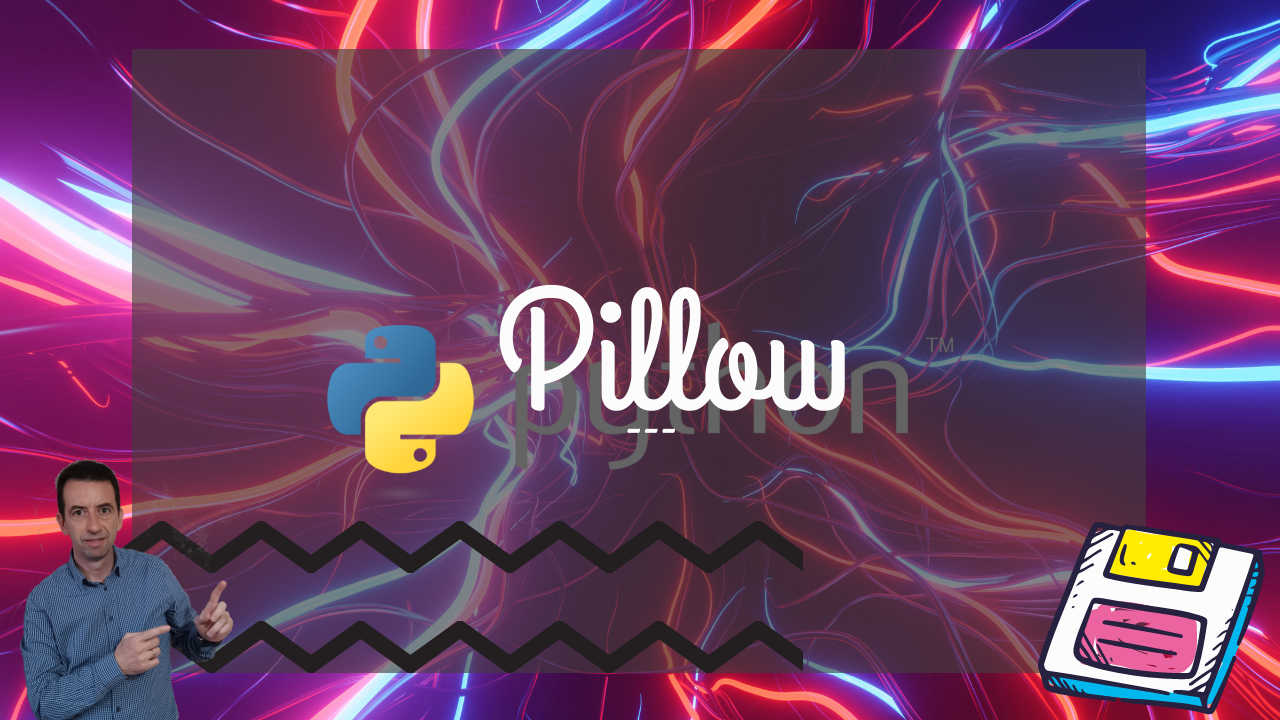
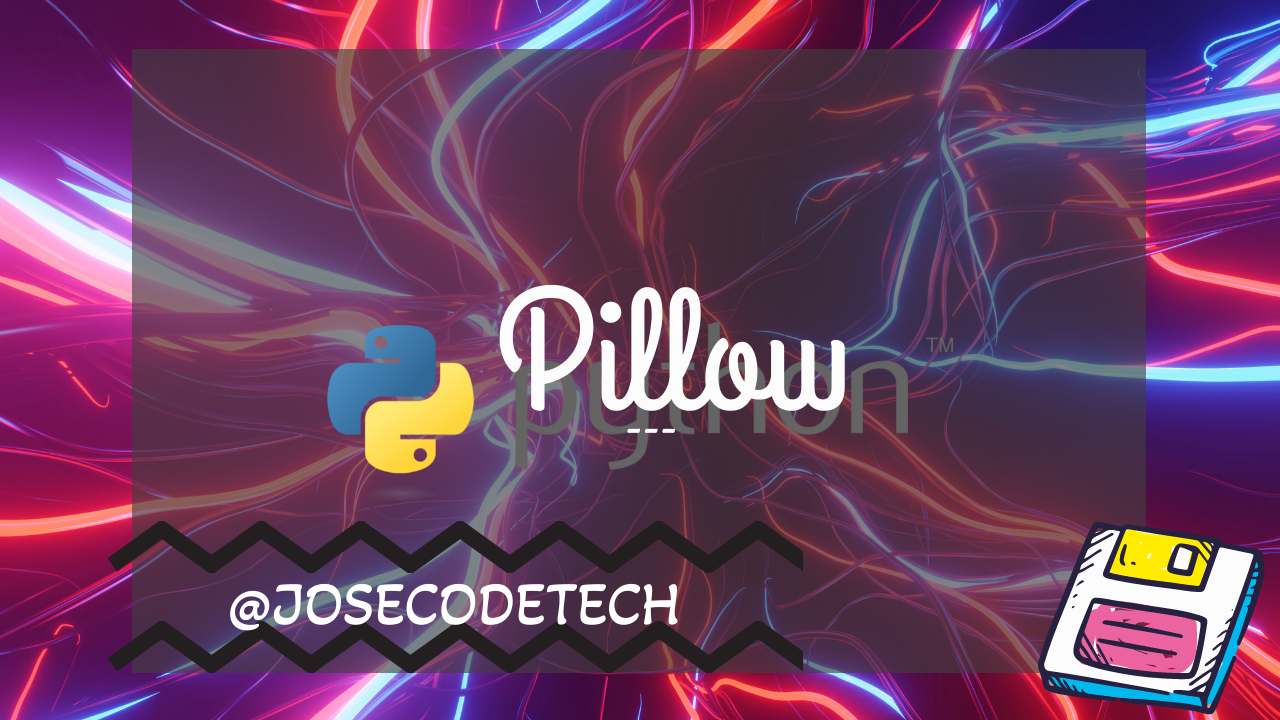
comenzamos

Changed region(s): [[0.0, 0.6417, 0.5312, 1.0]]

diff --git a/05_marca_agua.py b/05_marca_agua.py
@@ -1,0 +1,19 @@
+from PIL import Image,ImageDraw, ImageFont
+import os
+def aplicar_marca(ruta, texto, posicion, font_path='arial.ttf',font_size=30):
+    imagen = Image.open(ruta)
+    dibujo = ImageDraw.Draw(imagen)
+    fuente = ImageFont.truetype(font_path, font_size)
+    dibujo.text(posicion, texto, fill=(255,255,255), font= fuente)
+    return imagen
+carpeta_origen ='imagenes'
+carpeta_destino = 'imagenes_marca_agua'
+texto_marca_agua ='@josecodetech'
+posicion_texto = (10,10)
+os.makedirs(carpeta_destino, exist_ok=True)
+for archivo in os.listdir(carpeta_origen):
+    if archivo.endswith('.png'):
+        ruta_completa = os.path.join(carpeta_origen, archivo)
+        imagen_marca = aplicar_marca(ruta_completa, texto_marca_agua, posicion_texto)
+        ruta_guardado = os.path.join(carpeta_destino, archivo)
+        imagen_marca.save(ruta_guardado)

diff --git a/06_miniaturas.py b/06_miniaturas.py
@@ -1,0 +1,15 @@
+from PIL import Image,ImageDraw, ImageFont
+import os
+def crear_miniatura(ruta):
+    imagen = Image.open(ruta)
+    imagen.thumbnail((100,100))
+    return imagen
+carpeta_origen ='imagenes'
+carpeta_destino = 'imagenes_miniatura'
+os.makedirs(carpeta_destino, exist_ok=True)
+for archivo in os.listdir(carpeta_origen):
+    if archivo.endswith('.png'):
+        ruta_completa = os.path.join(carpeta_origen, archivo)
+        imagen_miniatura = crear_miniatura(ruta_completa)
+        ruta_guardado = os.path.join(carpeta_destino, archivo)
+        imagen_miniatura.save(ruta_guardado)

diff --git a/04_operaciones_continuacion.py b/04_operaciones_continuacion.py
@@ -1,0 +1,10 @@
+from PIL import Image
+imagen = Image.open('pillow.png')
+imagen.transpose(Image.FLIP_LEFT_RIGHT).save('pillow_volteada.png')
+imagen.rotate(120).save('pillow_rotada.png')
+imagen.crop((200,150,550,300)).save('pillow_recortada.png')
+imagen_grises = imagen.convert('L')
+imagen_grises.save('pillow_grises.png')
+from PIL import ImageFilter
+imagen_filtrada = imagen.filter(ImageFilter.BLUR)
+imagen_filtrada.save('pillow_filtrada.png')

diff --git a/03_operaciones_basicas.py b/03_operaciones_basicas.py
@@ -1,0 +1,8 @@
+from PIL import Image
+imagen = Image.open('pillow.png')
+imagen = imagen.convert('RGB')
+imagen.save('pillow_cambiada.jpg')
+imagen.thumbnail((200,200))
+imagen.save('pillow_miniatura.jpg')
+imagen = Image.open('pillow_miniatura.jpg')
+print(imagen.size)

diff --git a/02_propiedades.py b/02_propiedades.py
@@ -1,0 +1,6 @@
+from PIL import Image
+imagen = Image.open('pillow.png')
+print(imagen.format)
+print(imagen.size)
+print(imagen.mode)
+

diff --git a/01_abrir.py b/01_abrir.py
@@ -1,0 +1,3 @@
+from PIL import Image
+imagen = Image.open('pillow.png')
+imagen.show()
